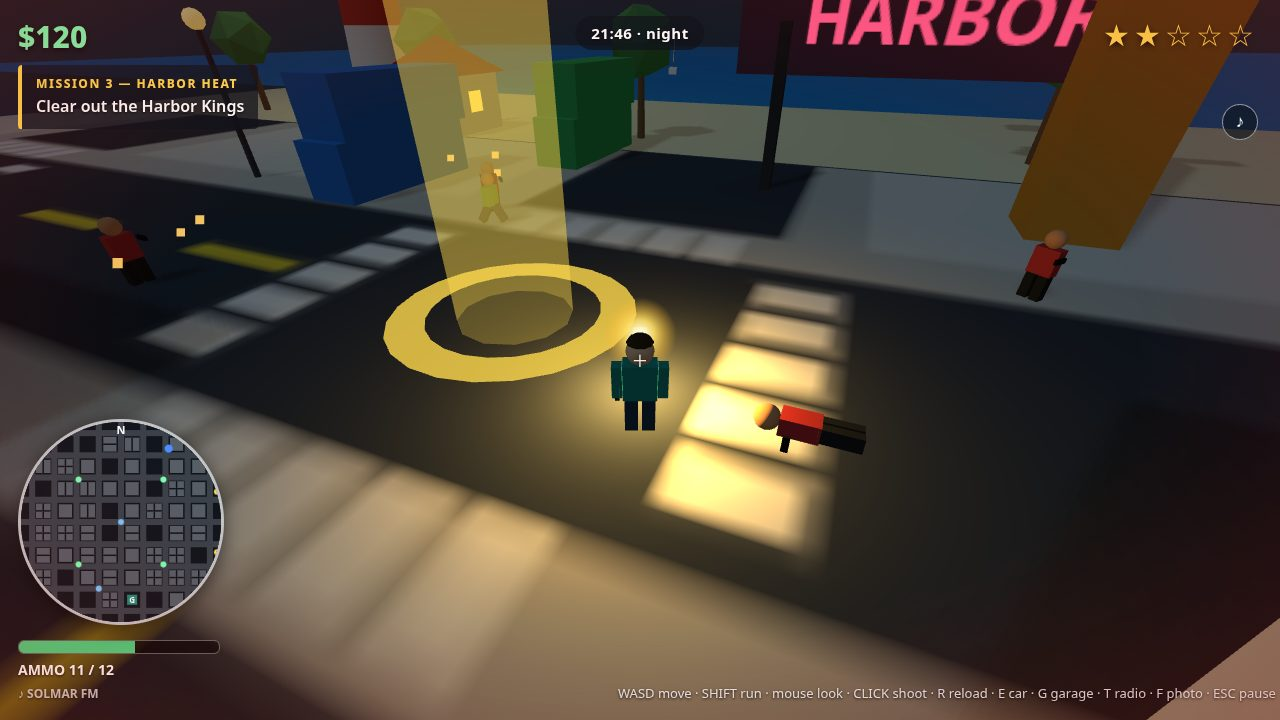
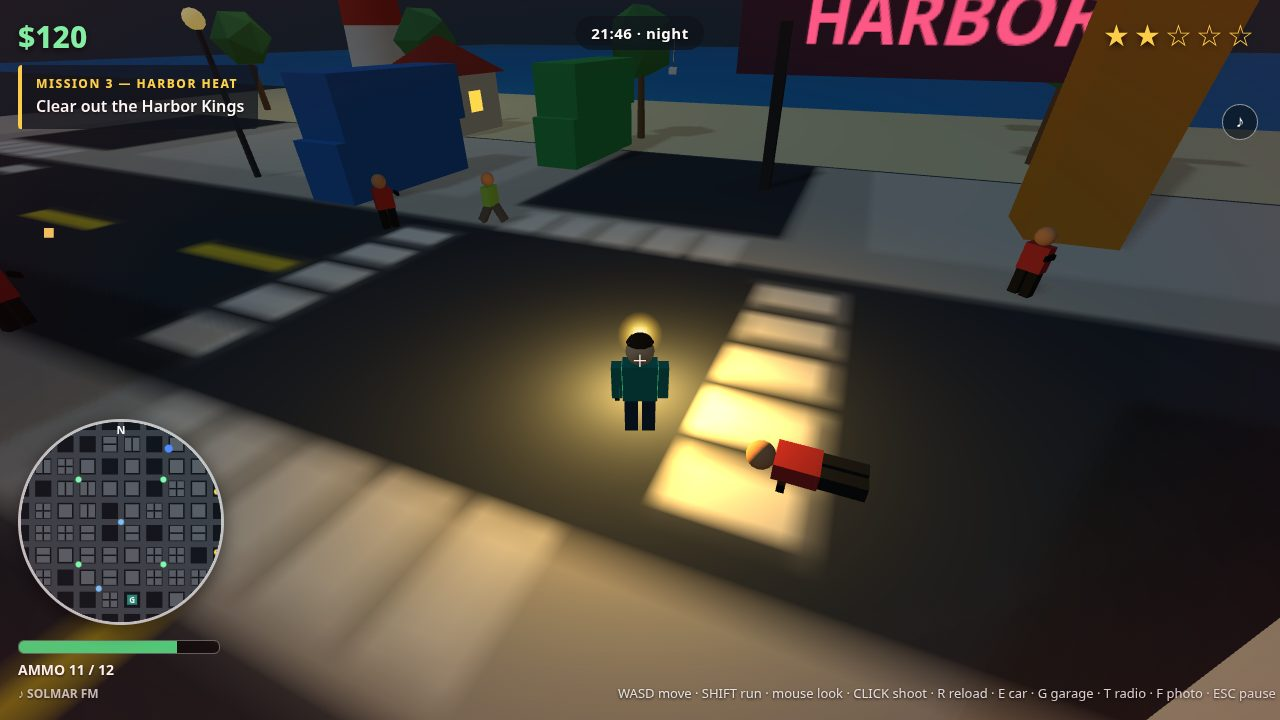
Loopdesign iter 7: hide beacon in combat shot, tighter muzzle flash
The iter-6 critic read the beacon beam as a spotlight and the soft
flash as a streetlight. The combat shot now hides the mission beacon
(gameplay unchanged) and the flash is a sharp 1.0 bright point.
Dossier 163461/163840.

diff --git a/game/src/main.js b/game/src/main.js
@@ -97,6 +97,9 @@ function runShot(name) {
     // while software rendering keeps the frame count (and wall time) low.
     updateWorld(world, STEP, input);
     updateWorld(world, STEP, input);
+    // The combat shot hides the mission beacon: the firefight is the
+    // subject, and the 40-unit beam would dominate the frame.
+    if (plan.hideBeacon) world.missions.beacon.visible = false;
     // A fixed vista (the cover): camera over the sea, looking west at the
     // sunset skyline — lighthouse left, downtown right, water foreground.
     if (plan.vista) {

diff --git a/game/src/combat.js b/game/src/combat.js
@@ -57,7 +57,7 @@ export function createCombat(scene) {
   const flash = new THREE.PointLight(0xffcc66, 0, 18, 2);
   scene.add(flash);
   const flashMesh = new THREE.Mesh(
-    new THREE.PlaneGeometry(1.6, 1.6),
+    new THREE.PlaneGeometry(1.0, 1.0),
     new THREE.MeshBasicMaterial({ map: flashTexture(), transparent: true, side: THREE.DoubleSide, depthWrite: false }),
   );
   flashMesh.visible = false;

diff --git a/game/src/shots.js b/game/src/shots.js
@@ -111,7 +111,7 @@ export function stageShot(name, world) {
     world.cameraRig.fovOverride = 72;
     addWanted(world.police, 2);
     world.police.cap = 2;
-    return { frames: 120, finalFire: true, noBanner: true, fallRivalAt: 60 };
+    return { frames: 120, finalFire: true, noBanner: true, fallRivalAt: 60, hideBeacon: true };
   }
 
   if (name === 'garage') {
